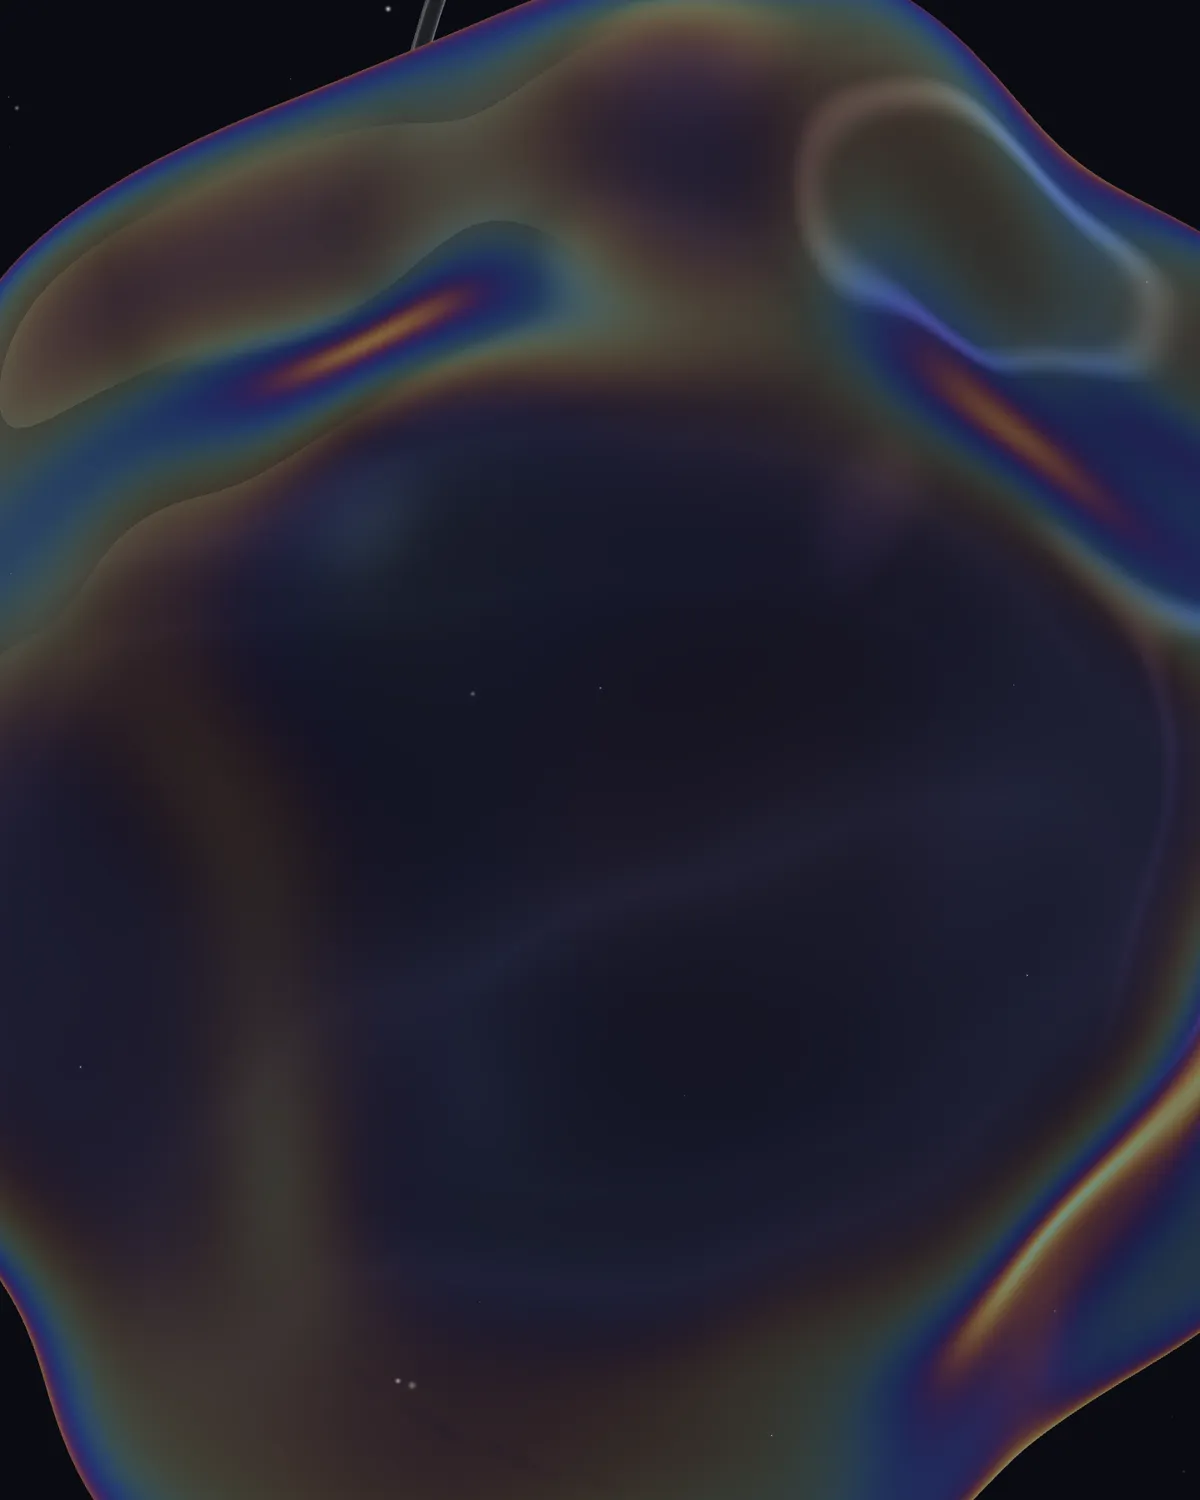
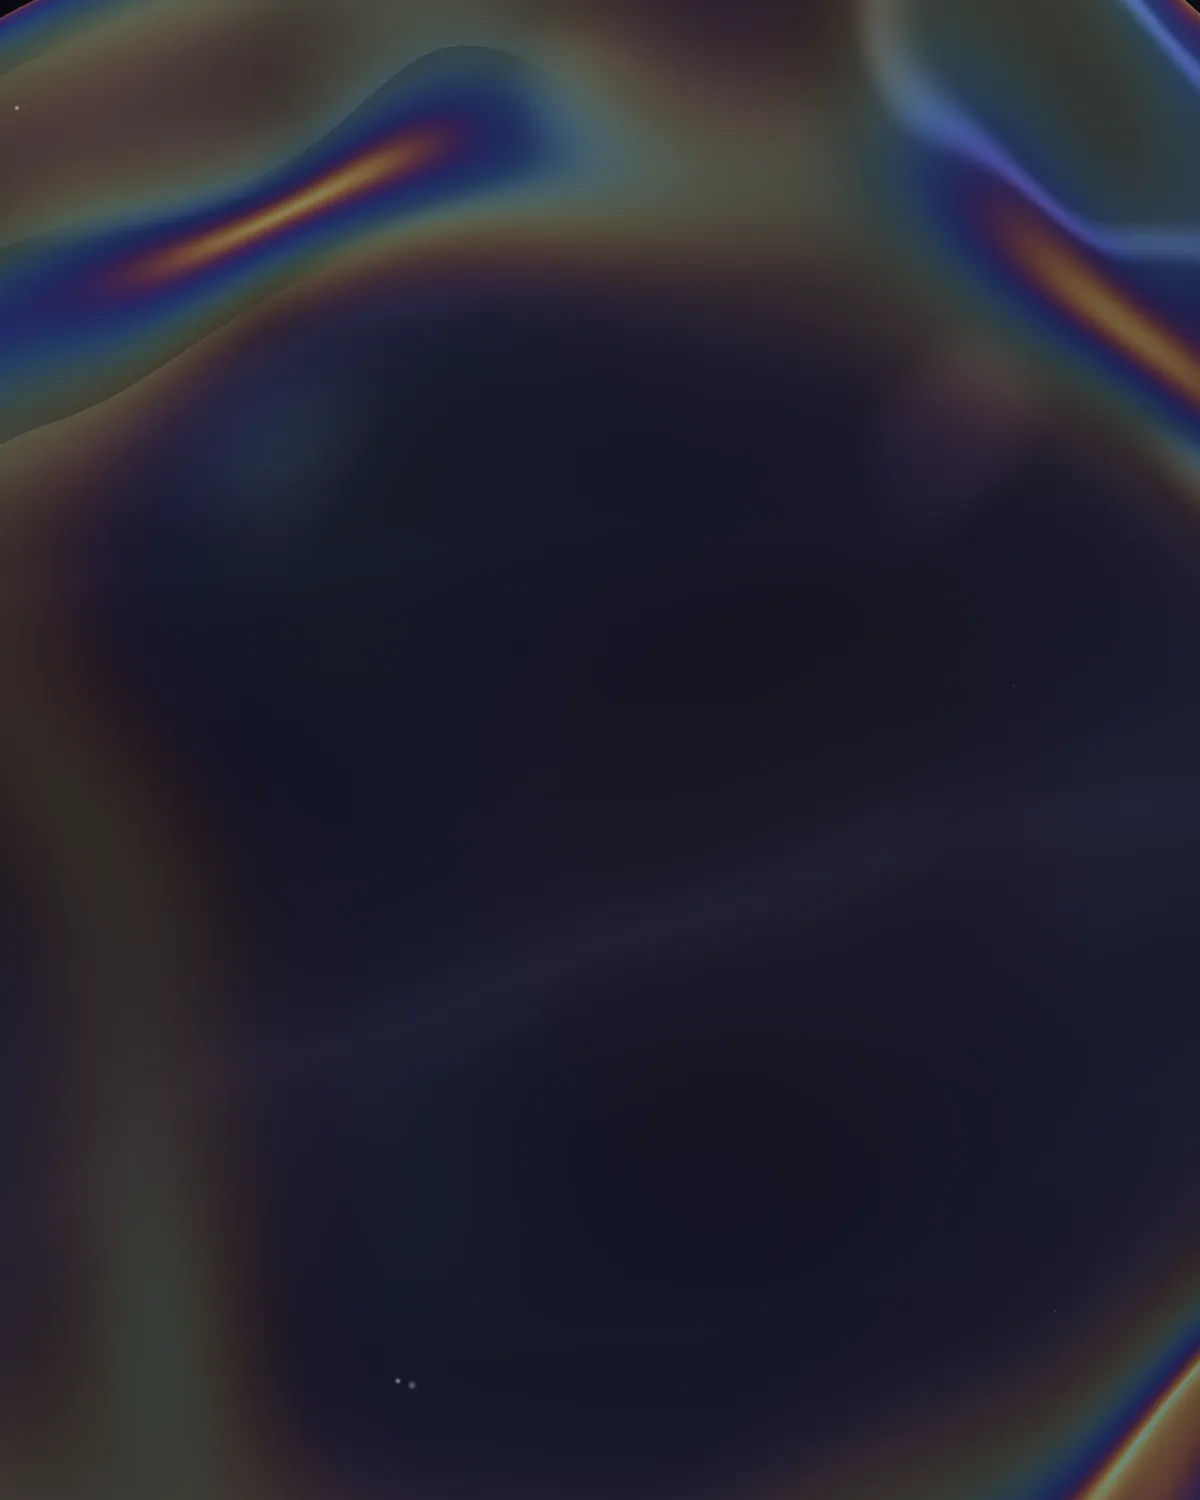
Phase A: fix review regressions, add embeddable preview build
- Story (mobile): clear the outlined year overhang above the headings.
- Plates: chrome hairline frames, so crops read as intentional.
- stillPose: three framings (the whole piece with space around it, a macro
  detail, a three-quarter view) plus chrome variants; plates re-rendered.
- VITE_ROUTER=memory and relative asset URLs, for previews inside sandboxed
  frames.

Claude-Session: https://claude.ai/code/session_0188mdb4o43YVAmpK662j6iU

diff --git a/src/features/invitation/sections/StorySection.tsx b/src/features/invitation/sections/StorySection.tsx
@@ -19,7 +19,7 @@ export function StorySection({ story, isDemo }: { story: StoryMoment[]; isDemo?:
             return (
               <li key={m.year + m.title} className="grid items-center gap-10 md:grid-cols-12">
                 <div className={cn('relative md:col-span-6', flip ? 'md:col-start-7' : 'md:col-start-1', i % 3 === 2 && 'md:col-span-5')}>
-                  <div className={cn('overflow-hidden rounded-[1.25rem]', flip ? 'aspect-[4/5]' : 'aspect-[5/4]')}>
+                  <div className={cn('overflow-hidden rounded-[1.25rem] border border-chrome/20', flip ? 'aspect-[4/5]' : 'aspect-[5/4]')}>
                     <Plate seed={m.art} label={isDemo ? `Rendu de la sculpture VOW. illustrant « ${m.title} »` : undefined} />
                   </div>
                   <span
@@ -32,7 +32,7 @@ export function StorySection({ story, isDemo }: { story: StoryMoment[]; isDemo?:
                     {m.year}
                   </span>
                 </div>
-                <div className={cn('md:col-span-4', flip ? 'md:col-start-2 md:row-start-1' : 'md:col-start-8')}>
+                <div className={cn('mt-8 md:col-span-4 md:mt-0', flip ? 'md:col-start-2 md:row-start-1' : 'md:col-start-8')}>
                   <h3 className="display text-[clamp(2rem,3.6vw,3.25rem)] leading-[1.02]">{m.title}</h3>
                   <p className="mt-6 max-w-[40ch] text-pearl-dim">{m.text}</p>
                 </div>

diff --git a/src/app/App.tsx b/src/app/App.tsx
@@ -1,5 +1,5 @@
 import { lazy, Suspense } from 'react'
-import { BrowserRouter, Route, Routes } from 'react-router-dom'
+import { BrowserRouter, MemoryRouter, Route, Routes } from 'react-router-dom'
 import { SiteLayout } from '@/components/layout/SiteLayout'
 import { ScrollManager } from '@/components/layout/ScrollManager'
 import { RouteFallback } from './RouteFallback'
@@ -29,11 +29,15 @@ export function AppRoutes() {
   )
 }
 
+// Embedded previews (sandboxed frames that cannot carry routes in their URL) build with
+// VITE_ROUTER=memory; production uses real URLs.
+const Router = import.meta.env.VITE_ROUTER === 'memory' ? MemoryRouter : BrowserRouter
+
 export default function App() {
   return (
-    <BrowserRouter>
+    <Router>
       <ScrollManager />
       <AppRoutes />
-    </BrowserRouter>
+    </Router>
   )
 }

diff --git a/src/components/three/SculptureCanvas.tsx b/src/components/three/SculptureCanvas.tsx
@@ -67,12 +67,13 @@ export function stillPose(seed: number) {
     spin: f(1) * Math.PI * 2,
     tilt: (f(2) - 0.5) * 0.9,
     roll: (f(3) - 0.5) * 0.6,
-    metal: seed % 4 === 0 ? 0.55 : 0,
+    metal: seed % 4 === 1 ? 0.6 : 0,
     distort: 0.14 + f(4) * 0.16,
-    scale: 0.9 + f(5) * 0.9,
-    x: (f(6) - 0.5) * 1.2,
-    y: (f(7) - 0.5) * 0.8,
-    ring: seed % 3 !== 0,
+    // three framings: whole piece with air (0), macro detail (1), three-quarter (2)
+    scale: seed % 3 === 0 ? 0.5 + f(5) * 0.15 : seed % 3 === 1 ? 1.7 + f(5) * 0.5 : 0.95 + f(5) * 0.3,
+    x: (f(6) - 0.5) * (seed % 3 === 0 ? 0.8 : 1.4),
+    y: (f(7) - 0.5) * (seed % 3 === 0 ? 0.6 : 1),
+    ring: seed % 3 !== 1 || seed % 2 === 1,
     particles: seed % 2 === 1,
   }
 }

diff --git a/src/features/landing/sections/Features.tsx b/src/features/landing/sections/Features.tsx
@@ -119,7 +119,7 @@ export function Features() {
             ))}
           </div>
           <div id={`${base}-panel`} role="tabpanel" aria-labelledby={`${base}-tab-${active}`} className="col-span-5 col-start-8 self-start">
-            <div className="relative aspect-[4/5] overflow-hidden rounded-[1.25rem]">
+            <div className="relative aspect-[4/5] overflow-hidden rounded-[1.25rem] border border-chrome/20">
               {FEATURES.map((x, i) => (
                 <div key={x.title} className={cn('absolute inset-0 transition-[opacity,transform] duration-[900ms] ease-[var(--ease-couture)]', i === active ? 'scale-100 opacity-100' : 'scale-[1.04] opacity-0')} aria-hidden="true">
                   <Plate seed={x.art} />

diff --git a/src/features/invitation/sections/MemoriesSection.tsx b/src/features/invitation/sections/MemoriesSection.tsx
@@ -47,7 +47,7 @@ export function MemoriesSection({ memories, isDemo }: { memories: Memory[]; isDe
                 }}
                 aria-label={`Agrandir : ${m.title}`}
               >
-                <span className={cn('block overflow-hidden rounded-[1rem]', SHAPE[m.shape])}>
+                <span className={cn('block overflow-hidden rounded-[1rem] border border-chrome/20', SHAPE[m.shape])}>
                   <span className="block h-full w-full transition-transform duration-[1200ms] ease-[var(--ease-couture)] group-hover:scale-[1.04]">
                     <Plate seed={m.art} />
                   </span>

diff --git a/src/features/landing/sections/DemoShowcase.tsx b/src/features/landing/sections/DemoShowcase.tsx
@@ -16,7 +16,7 @@ export function DemoShowcase() {
           <div className="relative aspect-[393/852] overflow-hidden rounded-[2.6rem] border border-chrome/30 bg-obsidian p-2 shadow-[0_50px_100px_-40px_rgb(0_0_0/0.9)]">
             <div className="relative h-full overflow-hidden rounded-[2.1rem]">
               <img
-                src="/plates/demo-phone.webp"
+                src={`${import.meta.env.BASE_URL}plates/demo-phone.webp`}
                 width={720}
                 height={1558}
                 loading="lazy"

diff --git a/src/components/ui/Plate.tsx b/src/components/ui/Plate.tsx
@@ -10,7 +10,7 @@ export function Plate({ seed, className, label, eager = false }: { seed: number;
   const s = (PLATE_SEEDS as readonly number[]).includes(seed) ? seed : PLATE_SEEDS[seed % PLATE_SEEDS.length]
   return (
     <img
-      src={`/plates/plate-${s}.webp`}
+      src={`${import.meta.env.BASE_URL}plates/plate-${s}.webp`}
       width={1200}
       height={1500}
       alt={label ?? ''}
